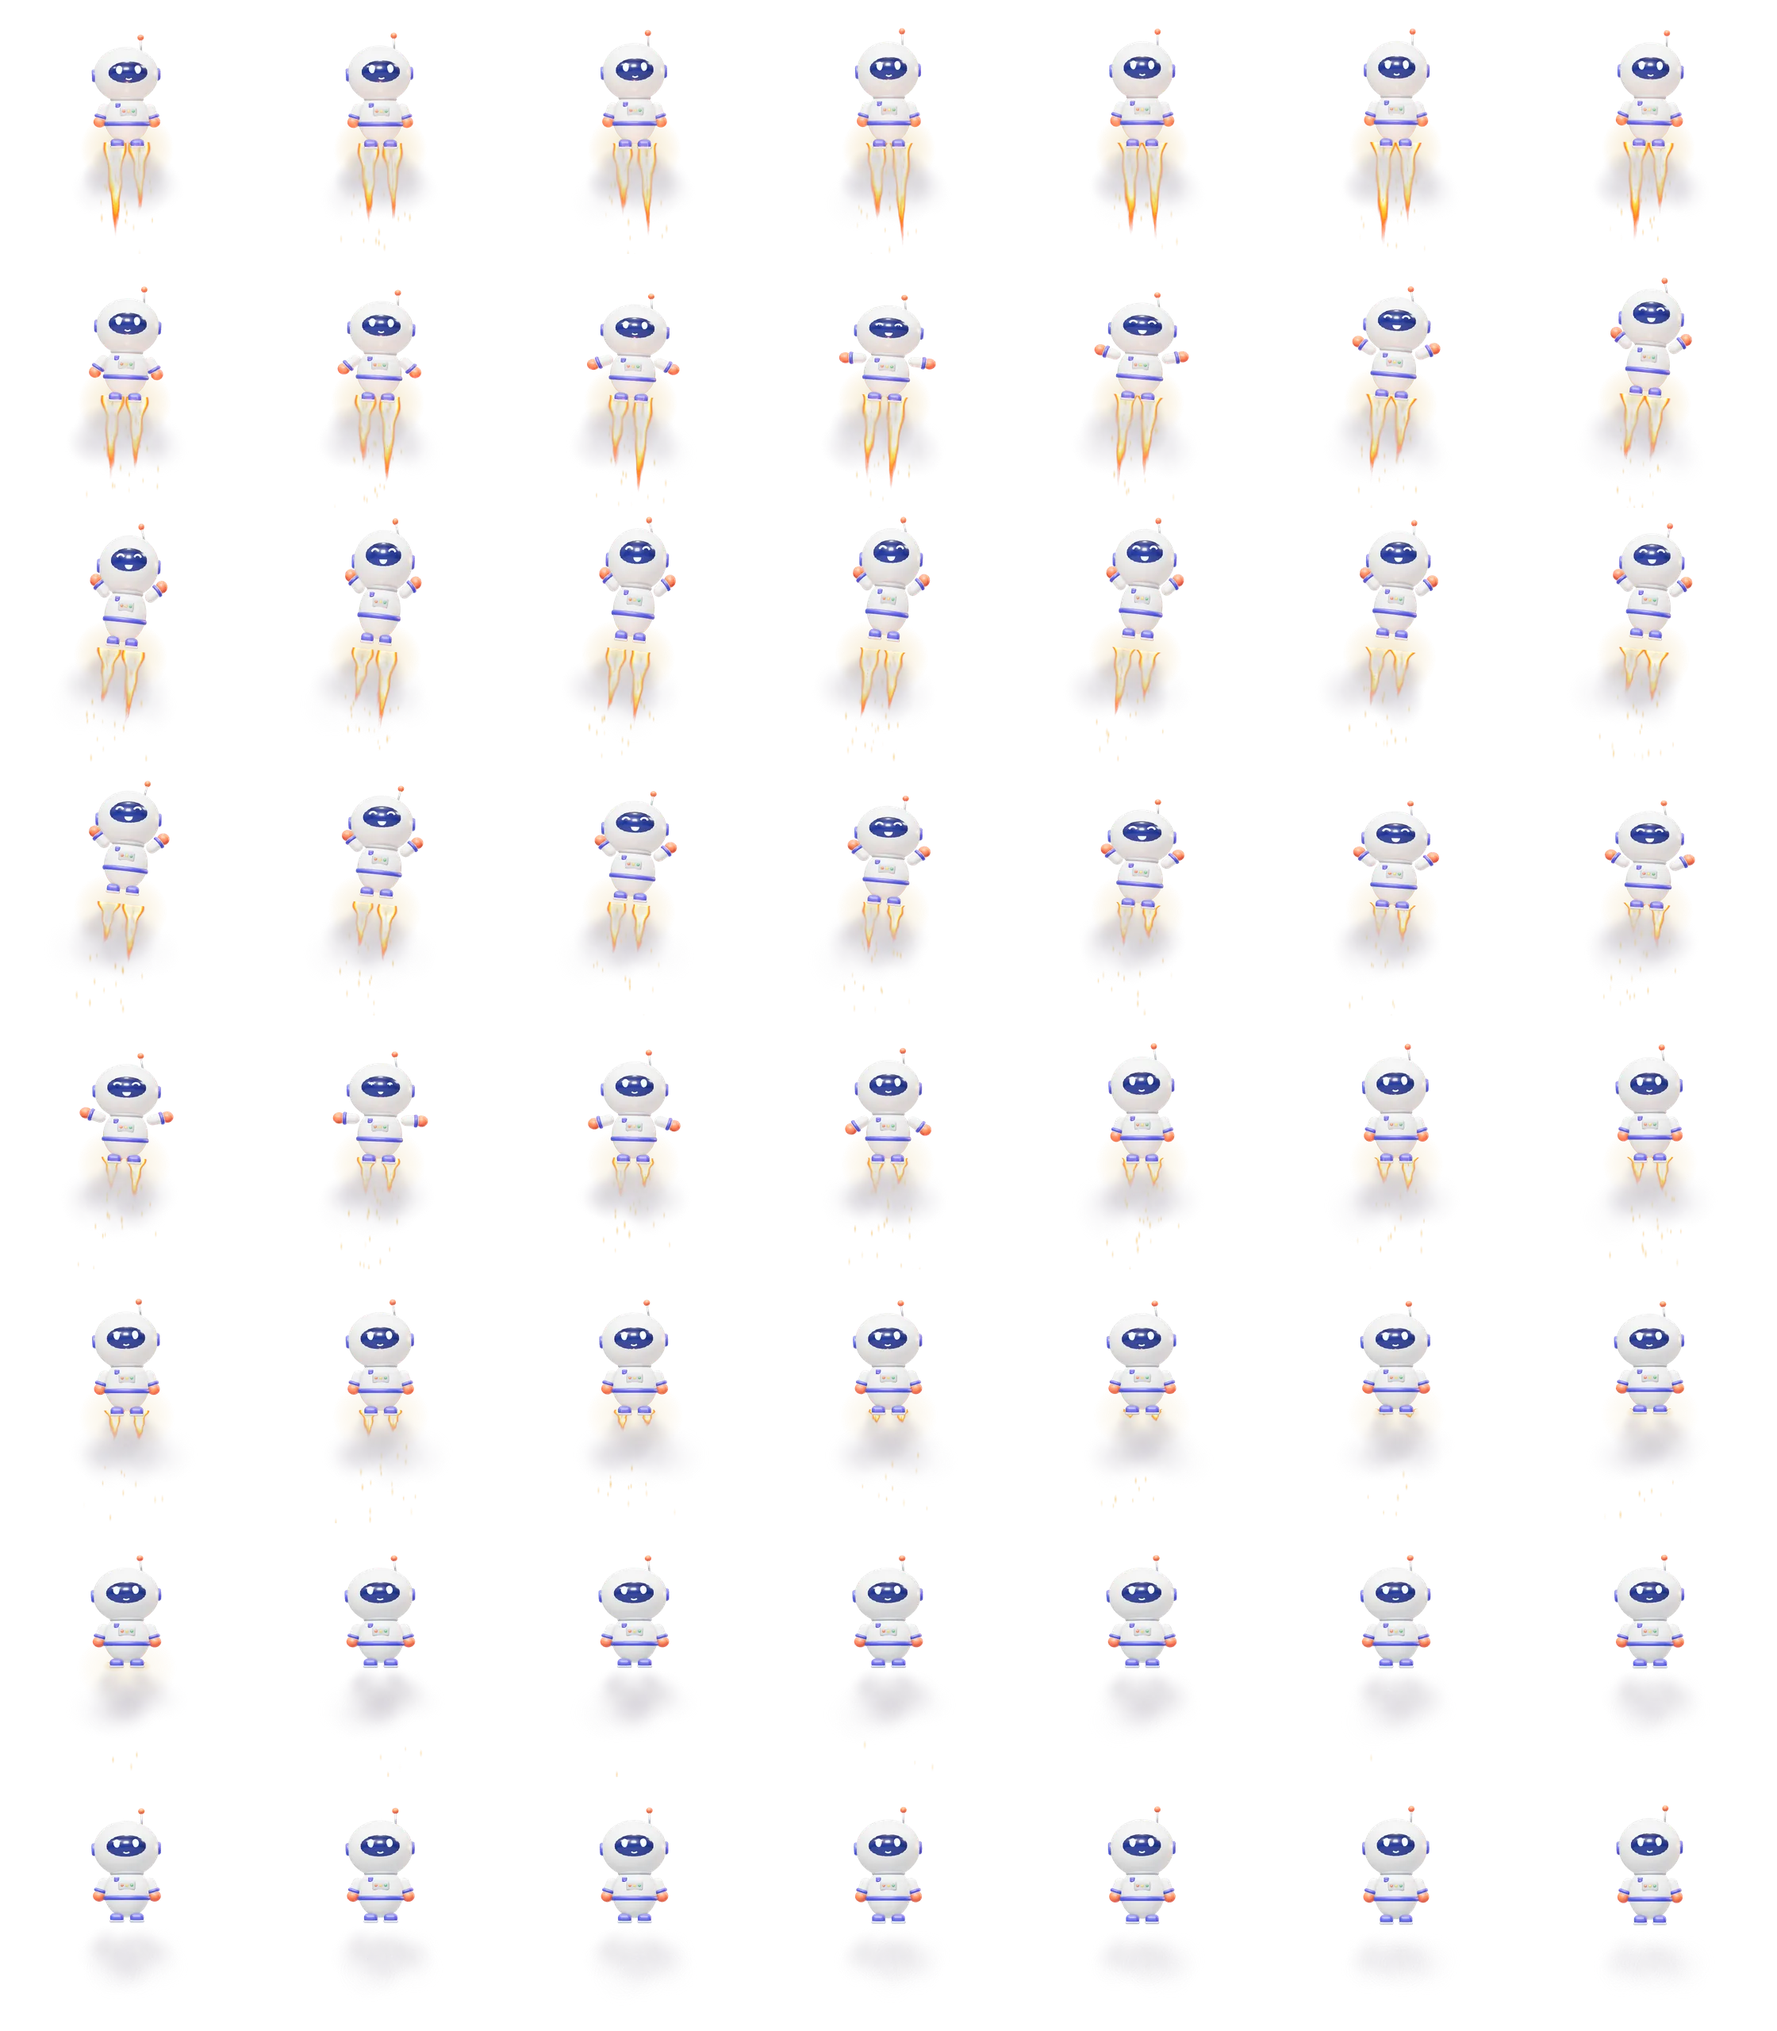
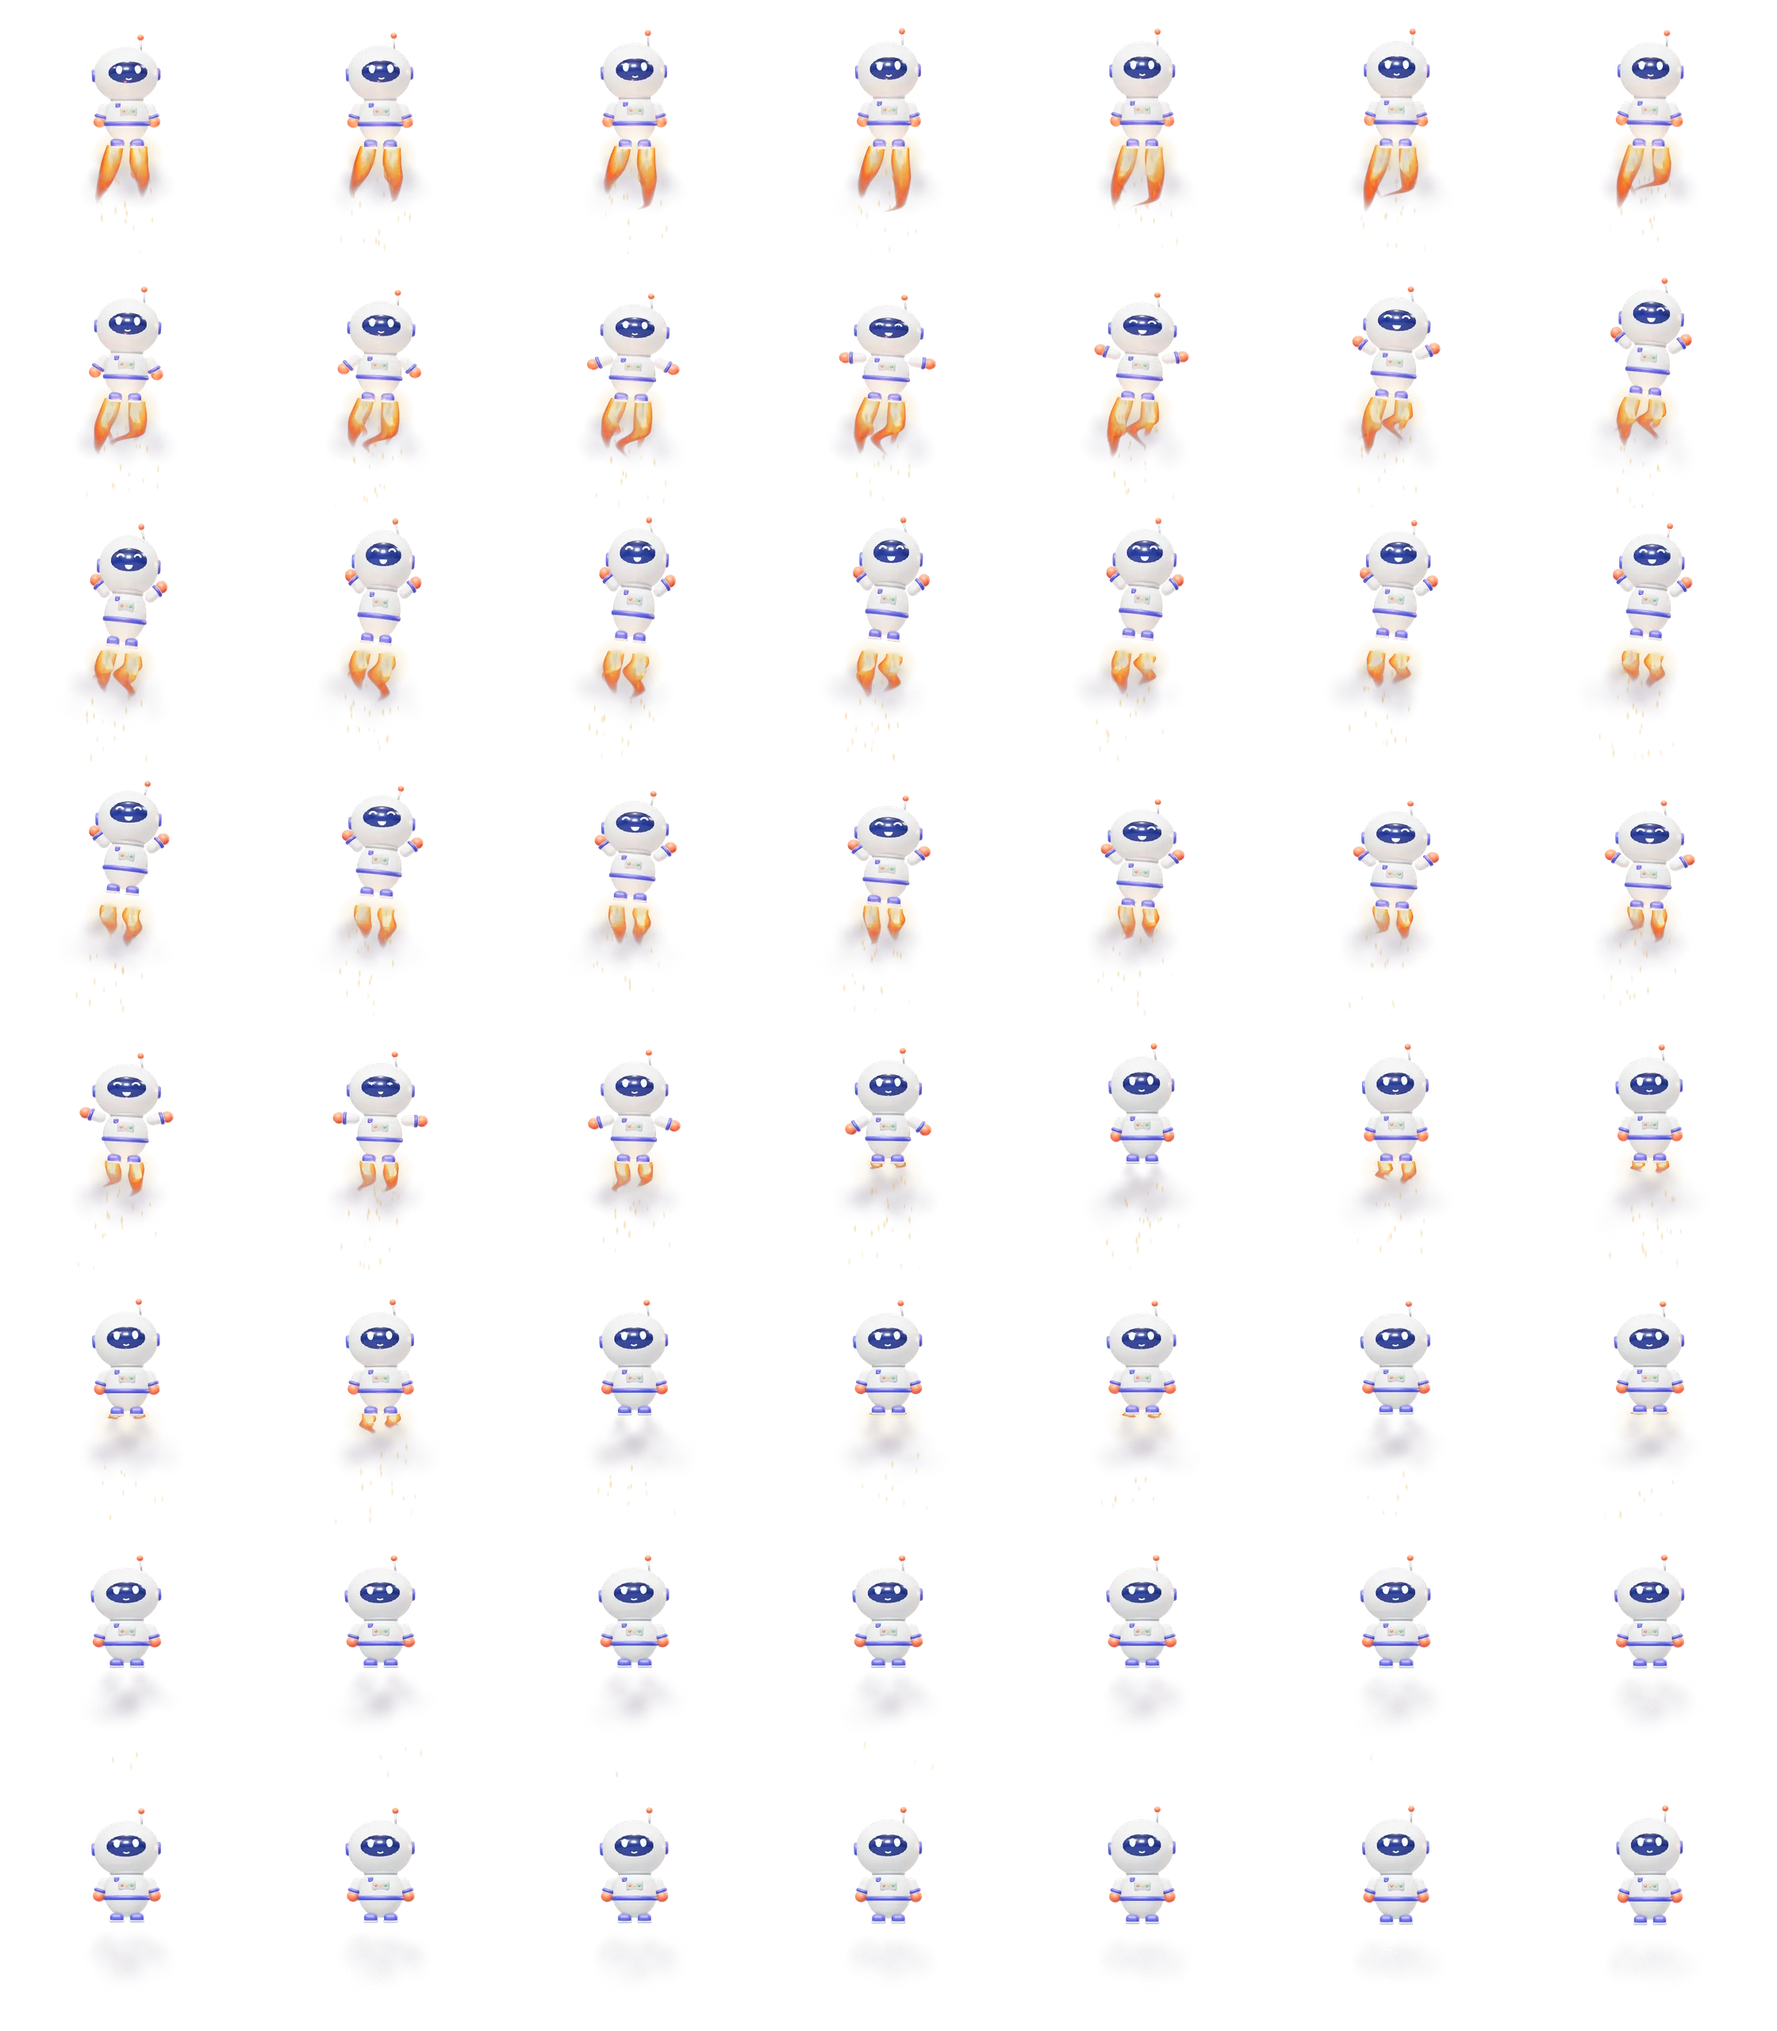
Obchod: objemový oheň z trysek, fyzika střepů a postupné praskání rámu
Plamen je 3D kuželový s šumem, reaguje na rychlost a zrychlení (natahuje se, naklání, zápal a kýchání při dohasínání)
a osvětluje kosmonauta i kartu. Průraz: Voronoiovy střepy přesně z vyříznuté oblasti s fyzikou, odrazy a prachem,
jiskry, uhlíky, kouř, žhnoucí a stydnoucí okraje, spáleniny, prosvítání ohně trhlinami a otřes karty i textu.

Claude-Session: https://claude.ai/code/session_01HSmZZV7pBVKrH3QkPH55k1

diff --git a/src/components/ShopHeroStage.tsx b/src/components/ShopHeroStage.tsx
@@ -11,9 +11,11 @@ const D = 300; // velikost snímku kosmonauta na stránce
 type Sheet = { src: string; n: number; cols: number; rows: number };
 const INTRO_SHEETS: Sheet[] = [1, 2, 3, 4, 5].map((i) => ({ src: `/home/obchod/kosmonaut-intro-${i}.webp`, n: 56, cols: 7, rows: 8 }));
 const LOOP_SHEETS: Sheet[] = [1, 2].map((i) => ({ src: `/home/obchod/kosmonaut-smycka-${i}.webp`, n: 60, cols: 10, rows: 6 }));
-const BURST: Sheet = { src: "/home/obchod/kosmonaut-vybuch.webp", n: 45, cols: 5, rows: 9 };
+const BURST: Sheet = { src: "/home/obchod/kosmonaut-vybuch.webp", n: 84, cols: 7, rows: 12 };
 const INTRO_FPS = 40, LOOP_FPS = 30, BURST_FPS = 30;
 const INTRO_END = 7.0;
+// Výkon trysek podle snímku (vyčteno z renderu): řídí oranžové světlo na kartě a prosvítání ohně trhlinami.
+const FLAME = [0,0,0,0,0,0,0,0,0,0,0,0,0,0,0,0,0,0,0,0,0,0,0,0,0,0,0,0,0,0,0,0,0,0,0,0,0,0,0,0,0,0,0,0,0,0,0,0,0,0,0,0,0,0,0,0,0,0,0,0,0,0,0,0,0,0,0,0,0,0,0,0,0,0,0,0,0,0,0,0,0,0,0,0,0,0,0,0,0,0,0,0,0,0,0,0,0,0,0,0,0,0,0,0,0,0,0,0,0,0,0,0,0,0,0,0,0,0,0,0,0,0,0,0,0,0,0,0,0,0,0,0,0,0,0,0,0,0,0,0,0,0.22,0.39,0.34,0.29,0.26,0.22,0.19,0.16,0.2,0.24,0.28,0.32,0.36,0.4,0.45,0.49,0.53,0.57,0.61,0.65,0.68,0.71,0.74,0.76,0.78,0.79,0.8,0.8,0.8,0.8,0.8,0.8,0.81,0.82,0.84,0.85,0.86,0.88,0.89,0.9,0.91,0.92,0.94,0.95,0.96,0.98,0.99,1,1,1,1,1,1,1,1,1,1,1,1,1,1,1,1,1,1,1,1,1,1,1,1,1,1,1,1,1,1,1,1,1,1,1,1,1,1,1,1,1,1,0.99,0.98,0.97,0.95,0.93,0.91,0.88,0.85,0.83,0.79,0.76,0.73,0.7,0.67,0.64,0.61,0.57,0.55,0.52,0.49,0.47,0.45,0.43,0.42,0.41,0.12,0.01,0.34,0.18,0.08,0.28,0.02,0.04,0.11,0.01,0.05,0.01,0,0,0,0,0,0,0,0,0,0,0,0,0];
 const BREAK_AT = 4.5;
 const HITS = [1.22, 1.85]; // nárazy hlavou do horní hrany
 const CRACK3_AT = 3.7;
@@ -63,8 +65,9 @@ const total = (s: Sheet[]) => s.reduce((a, b) => a + b.n, 0);
 export function ShopHeroStage() {
   const box = useRef<HTMLSpanElement>(null);
   const burst = useRef<HTMLSpanElement>(null);
+  const glow = useRef<HTMLSpanElement>(null);
   useEffect(() => {
-    const el = box.current, bu = burst.current;
+    const el = box.current, bu = burst.current, gl = glow.current;
     const card = el?.closest<HTMLElement>(".gs-hero-card");
     if (!el || !bu || !card) return;
     const wide = window.matchMedia("(min-width: 900px)");
@@ -99,7 +102,7 @@ export function ShopHeroStage() {
         if (t >= CRACK3_AT) once("c3", () => card.classList.add("is-crack3"));
         if (t >= BREAK_AT) once("br", () => {
           card.classList.add("is-broken");
-          shake("gs-quake", 620);
+          shake("gs-quake", 700);
           bu.style.opacity = "1";
         });
         if (t >= BREAK_AT) {
@@ -109,10 +112,21 @@ export function ShopHeroStage() {
         if (t < INTRO_END) {
           const [xr, y] = pathAt(t);
           place(xr, y);
-          paint(el, INTRO_SHEETS, Math.min(introN - 1, Math.floor(t * INTRO_FPS)));
+          const fi = Math.min(introN - 1, Math.floor(t * INTRO_FPS));
+          paint(el, INTRO_SHEETS, fi);
+          // světlo ohně na kartě (posouvá se s kosmonautem), prosvítání trhlinami a jejich postupné plazení
+          const fl = FLAME[fi] ?? 0;
+          if (gl) { gl.style.right = `${xr - 260}px`; gl.style.top = `${y - 230}px`; gl.style.opacity = String(Math.min(1, fl * 1.1)); }
+          card.style.setProperty("--leak", fl.toFixed(2));
+          card.style.setProperty("--bulge", String(t < BREAK_AT ? Math.min(1, Math.max(0, (t - 3.5) / 1.0)) : 0));
+          card.style.setProperty("--cp3", String(Math.min(1, Math.max(0, (t - CRACK3_AT) / (BREAK_AT - CRACK3_AT)) ** 0.8)));
+          card.style.setProperty("--cp2", String(Math.min(1, Math.max(0, (t - HITS[1]) / 1.4))));
+          card.style.setProperty("--cp1", String(Math.min(1, Math.max(0, (t - HITS[0]) / 0.9))));
         } else {
           place(last[1], last[2]);
           paint(el, LOOP_SHEETS, Math.floor((t - INTRO_END) * LOOP_FPS) % loopN);
+          if (gl) gl.style.opacity = "0";
+          card.style.setProperty("--leak", "0");
         }
         el.style.opacity = "1";
         raf = requestAnimationFrame(tick);
@@ -149,11 +163,13 @@ export function ShopHeroStage() {
       timers.forEach(clearTimeout);
       cleanups.forEach((f) => f());
       card.classList.remove("is-crack1", "is-crack2", "is-crack3", "is-broken", "gs-hit", "gs-quake");
+      for (const v of ["--leak", "--bulge", "--cp1", "--cp2", "--cp3"]) card.style.removeProperty(v);
     };
   }, []);
 
   return (
     <>
+      <span ref={glow} aria-hidden className="gs-fireglow" />
       <span ref={burst} aria-hidden className="gs-burst" />
       <span ref={box} aria-hidden className="gs-stage" style={{ width: D, height: D }} />
     </>

diff --git a/src/app/globals.css b/src/app/globals.css
@@ -5260,8 +5260,12 @@ a.gcard-live:hover .sv-halo { transform: scale(1.12); opacity: 0.22; }
 .gs-hero-card.is-broken .gs-web { visibility: hidden; }
 .gs-hero-card.is-crack1 .gs-hero-art, .gs-hero-card.is-crack2 .gs-hero-art, .gs-hero-card.is-crack3 .gs-hero-art { opacity: 1; }
 .gs-webline { stroke-dasharray: 100; stroke-dashoffset: 100; }
-.gs-hero-card.is-crack1 .gs-web1 .gs-webline, .gs-hero-card.is-crack2 .gs-web2 .gs-webline, .gs-hero-card.is-crack3 .gs-web3 .gs-webline { animation: gs-webdraw 0.5s ease-out forwards; }
-@keyframes gs-webdraw { to { stroke-dashoffset: 0; } }
+.gs-hero-card .gs-web1 .gs-webline { stroke-dashoffset: calc(100 - var(--cp1, 0) * 100); }
+.gs-hero-card .gs-web2 .gs-webline { stroke-dashoffset: calc(100 - var(--cp2, 0) * 100); }
+.gs-hero-card .gs-web3 .gs-webline { stroke-dashoffset: calc(100 - var(--cp3, 0) * 100); }
+/* oheň zespodu prosvítá trhlinami: čím silnější trysky, tím žhavější světlo */
+.gs-hero-card .gs-webline { filter: drop-shadow(0 0 calc(2px + var(--leak, 0) * 7px) rgba(255, 170, 60, calc(0.35 + var(--leak, 0) * 0.65))); }
+.gs-hero-card:not(.is-broken)::before { translate: 0 calc(var(--bulge, 0) * -3px); }
 .gs-hero-card.is-broken .gs-glow { animation: gs-flash 0.7s ease-out both, gs-pulse 3.4s ease-in-out 0.7s infinite; }
 @keyframes gs-flash { from { transform: scale(0.2); opacity: 1; } to { transform: scale(1); opacity: 0.9; } }
 .gs-burst { display: block; position: absolute; right: -60px; top: -300px; width: 580px; height: 500px; z-index: 5; pointer-events: none; opacity: 0; background-repeat: no-repeat; background-size: 500% 900%; }
@@ -5272,3 +5276,16 @@ a.gcard-live:hover .sv-halo { transform: scale(1.12); opacity: 0.22; }
 @keyframes gs-quake { 0% { transform: translate(0, 0) rotate(0); } 10% { transform: translate(-5px, 4px) rotate(-0.25deg); } 22% { transform: translate(6px, -5px) rotate(0.3deg); } 36% { transform: translate(-4px, 3px) rotate(-0.15deg); } 52% { transform: translate(3px, -2px) rotate(0.1deg); } 75% { transform: translate(-1px, 1px); } 100% { transform: translate(0, 0) rotate(0); } }
 @media (prefers-reduced-motion: reduce) { .gs-hero-card.gs-hit, .gs-hero-card.gs-quake { animation: none; } }
 @media (max-width: 899px) { .gs-burst, .gs-stage { display: none; } }
+
+/* oranžové světlo ohně na kartě pod kosmonautem */
+.gs-fireglow { display: block; position: absolute; z-index: 3; width: 520px; height: 520px; pointer-events: none; opacity: 0; mix-blend-mode: screen;
+  background: radial-gradient(closest-side, rgba(255, 168, 70, 0.55), rgba(255, 110, 30, 0.22) 45%, rgba(255, 90, 20, 0) 75%); }
+@media (max-width: 899px) { .gs-fireglow { display: none; } }
+/* žhavé okraje po prorazu pomalu stydnou, spáleniny zůstanou, text se otřese setrvačností */
+.gs-scorch { opacity: 0; transition: opacity 0.6s ease-out; }
+.gs-hero-card.is-broken .gs-scorch { opacity: 1; }
+.gs-hero-card.is-broken .gs-hot { animation: gs-cool 4.5s ease-out forwards !important; }
+@keyframes gs-cool { 0% { opacity: 1; stroke: #fff3b8; } 18% { stroke: #ffc933; } 100% { opacity: 0.22; stroke: #b2561f; } }
+.gs-hero-card.gs-quake .gs-hero-text { animation: gs-textjolt 0.7s ease-out; }
+@keyframes gs-textjolt { 0% { transform: translate(0, 0); } 12% { transform: translate(-5px, 6px); } 30% { transform: translate(5px, -4px); } 55% { transform: translate(-2px, 2px); } 100% { transform: translate(0, 0); } }
+@media (prefers-reduced-motion: reduce) { .gs-hero-card.gs-quake .gs-hero-text { animation: none; } .gs-fireglow { display: none; } }

diff --git a/src/components/ShopHeroArt.tsx b/src/components/ShopHeroArt.tsx
@@ -63,15 +63,25 @@ export function ShopHeroArt() {
         ["gs-web2", ["M172 100 L140 108", "M212 90 L238 70", "M232 104 L262 112", "M186 150 L180 184 L160 196", "M160 76 L134 64", "M244 84 L270 76"]],
         ["gs-web3", ["M200 122 L226 156 L262 168 L290 160", "M140 108 L112 96 L96 74", "M206 64 L196 34 L212 10", "M270 76 L296 58", "M160 196 L130 210 L116 236", "M180 184 L200 214 L196 246"]],
       ].map(([cls, paths]) => (
-        <g key={cls as string} className={`gs-web ${cls}`} fill="none" strokeLinecap="round" strokeLinejoin="round">
+        <g key={cls as string} className={`gs-web ${cls}`} clipPath="url(#sha-incard)" fill="none" strokeLinecap="round" strokeLinejoin="round">
           {(paths as string[]).map((d) => (
             <g key={d}>
               <path d={d} stroke={INK} strokeWidth="7" />
-              <path d={d} stroke="#fff3b8" strokeWidth="2.6" pathLength={100} className="gs-webline" />
+              <path d={d} stroke="#ffd36a" strokeWidth="2.8" pathLength={100} className="gs-webline" />
             </g>
           ))}
         </g>
       ))}
+      {/* spáleniny kolem trhliny */}
+      <defs>
+        <clipPath id="sha-incard"><rect x="-40" y={TOP} width={W + 80} height={520 - TOP} /></clipPath>
+        <radialGradient id="sha-scorch" cx=".5" cy=".5" r=".5"><stop offset="0" stopColor="#000" stopOpacity=".6" /><stop offset=".6" stopColor="#0a0820" stopOpacity=".28" /><stop offset="1" stopColor="#0a0820" stopOpacity="0" /></radialGradient>
+      </defs>
+      <g className="gs-scorch">
+        <ellipse cx="210" cy={TOP + 110} rx="190" ry="62" fill="url(#sha-scorch)" />
+        <ellipse cx="120" cy={TOP + 90} rx="80" ry="40" fill="url(#sha-scorch)" />
+        <ellipse cx="300" cy={TOP + 96} rx="70" ry="36" fill="url(#sha-scorch)" />
+      </g>
       {/* hrana prasklého rámu: tmavý lem, světlý odlesk a zlatá žhavá linka */}
       <polyline points={EDGE} fill="none" stroke={INK} strokeWidth="10" strokeLinejoin="round" strokeLinecap="round" />
       <polyline points={EDGE} fill="none" stroke="#e8e3ff" strokeWidth="3.6" strokeLinejoin="round" strokeLinecap="round" opacity=".85" />
